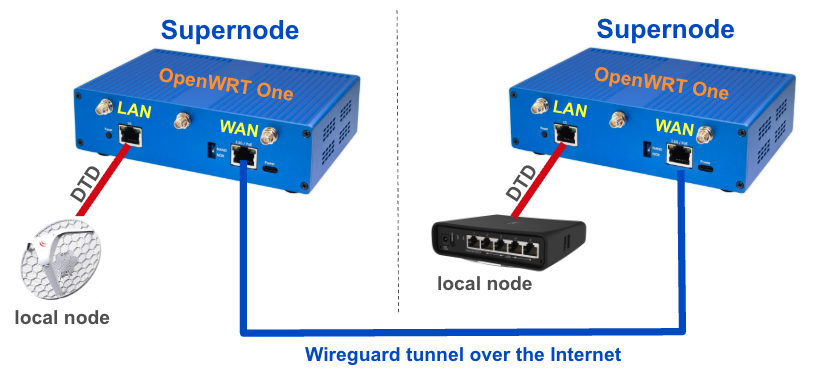
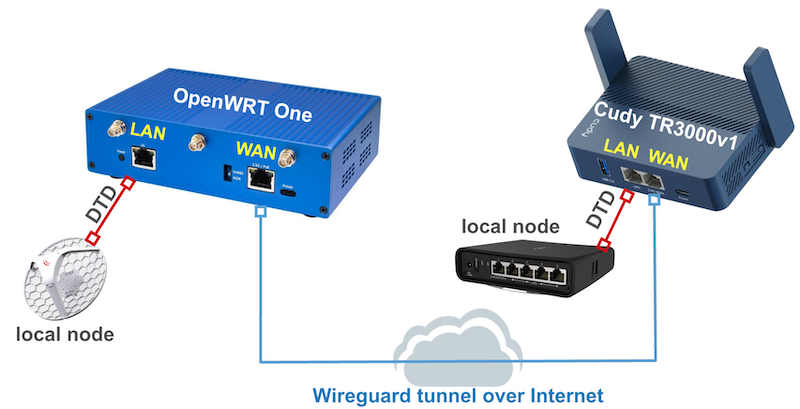
pretag-4.26.7.0

Changed region(s): [[0.0, 0.0, 1.0, 1.0]]

diff --git a/conf.py b/conf.py
@@ -35,9 +35,9 @@ copyright = f'{date.today().year}, Amateur Radio Emergency Data Network, Inc. Li
 author = u'Amateur Radio Emergency Data Network, Inc.'
 
 # The short X.Y version
-version = u'latest'
+version = u'4.26.7.0'
 # The full version, including alpha/beta/rc tags
-release = u'latest'
+release = u'4.26.7.0'
 
 # -- General configuration ---------------------------------------------------
 